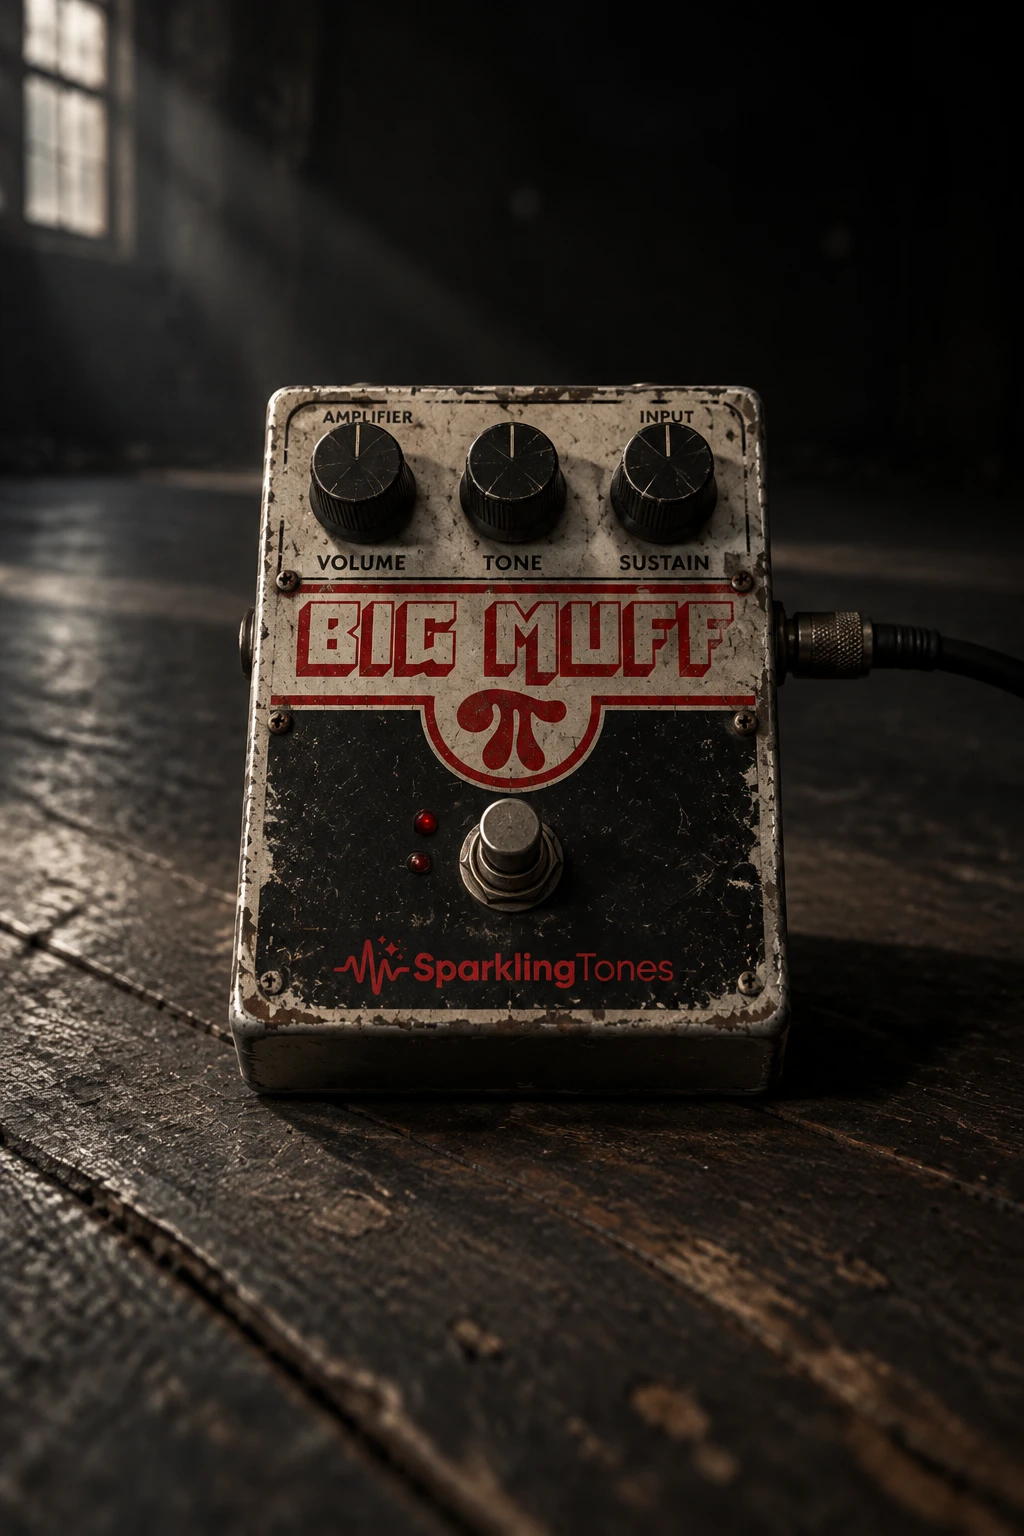
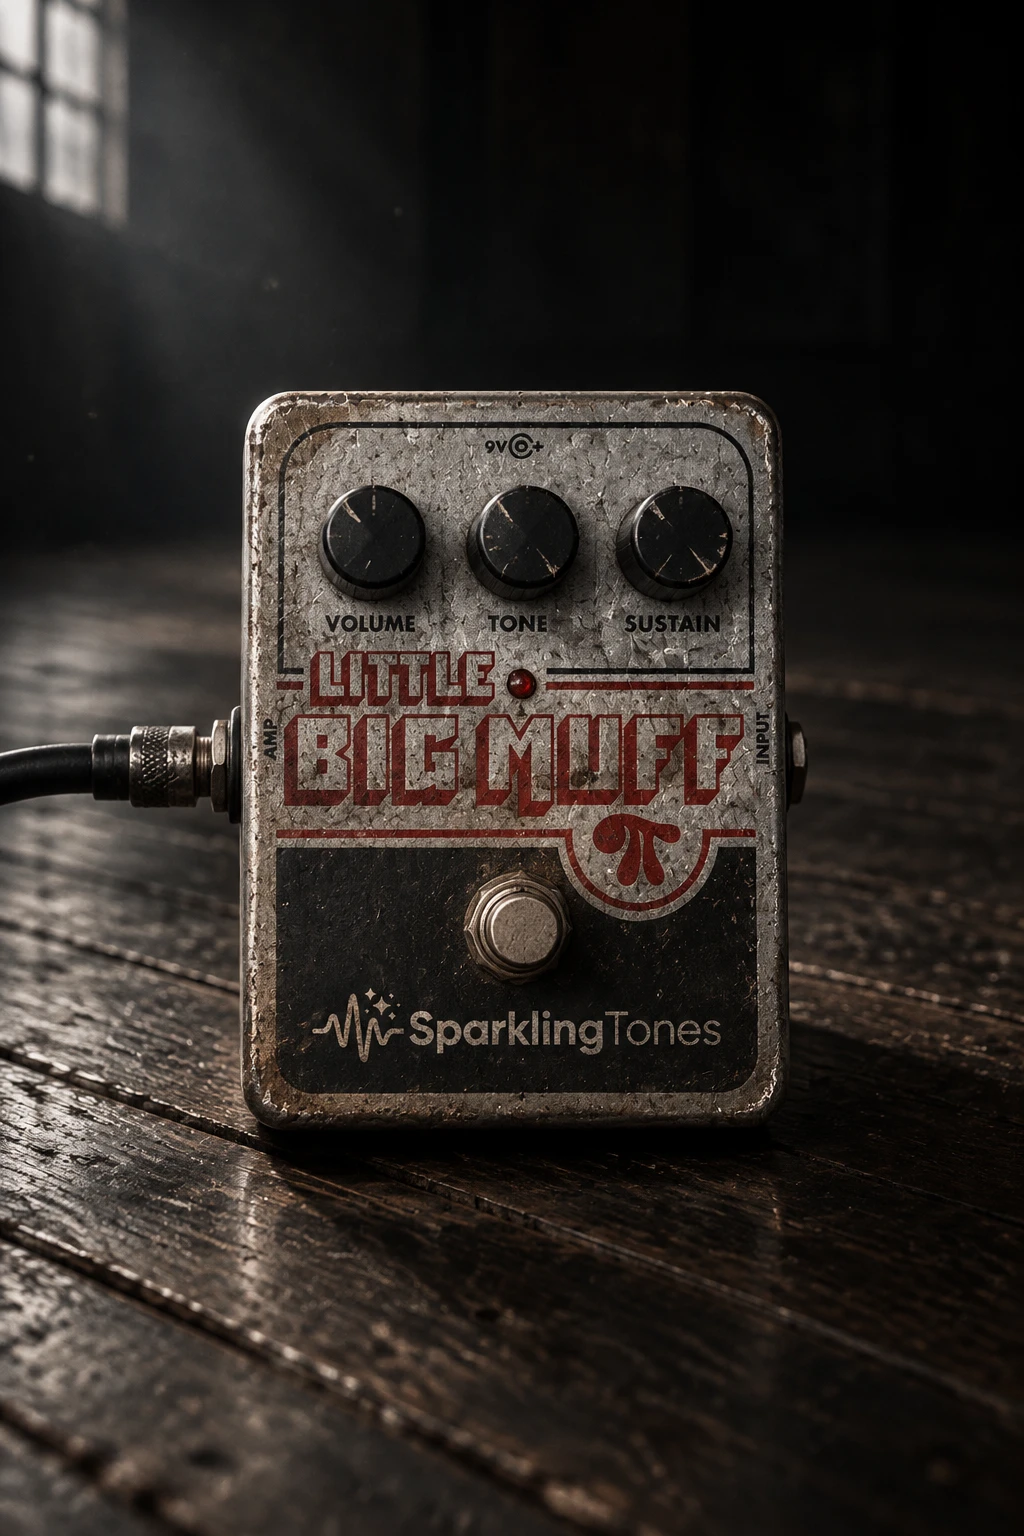
Bozza classico: il Guitar Muff diventa un Little Big Muff
Immagine nuova dell'utente (il Little Big Muff grigio e rosso, stessa
stanza buia e stessa misura 1024 x 1536) al posto del Big Muff di prima.
Taglio e testa restano; la spia si sposta sul LED nuovo, in mezzo fra
LITTLE e le manopole (misurato dai pixel rossi).

diff --git a/src/app/17-editor-classico.js b/src/app/17-editor-classico.js
@@ -146,7 +146,7 @@ const SFONDI_CLASSICI = {
   MaestroBassmaster: { src: 'immagini/classico/bassmaster.webp', taglio: 0.21, testa: 0.30, largo: 1.6,
                    led: { x: 0.5024, y: 0.2865, r: 0.0115 } },
   GuitarMuff:    { src: 'immagini/classico/guitar-muff.webp', taglio: 0.23, testa: 0.32, largo: 1.6,
-                   led: { x: 0.4146, y: 0.5342, r: 0.0085 } },
+                   led: { x: 0.5146, y: 0.446, r: 0.0075 } },
   BassBigMuff:   { src: 'immagini/classico/bass-muff.webp', taglio: 0.21, testa: 0.30, largo: 1.6,
                    led: { x: 0.5039, y: 0.4095, r: 0.0122 } },
   ProCoRat:      { src: 'immagini/classico/black-op.webp', taglio: 0.24, testa: 0.28, largo: 1.6 },
